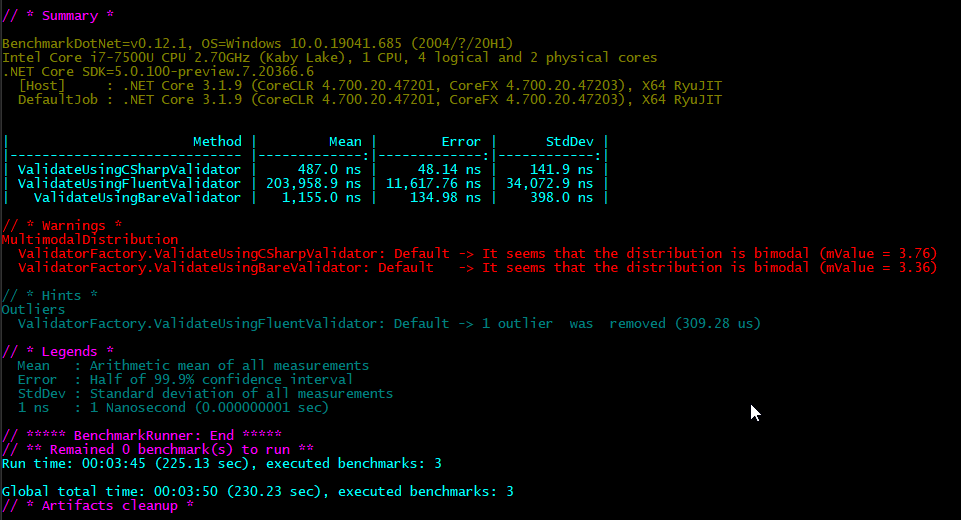
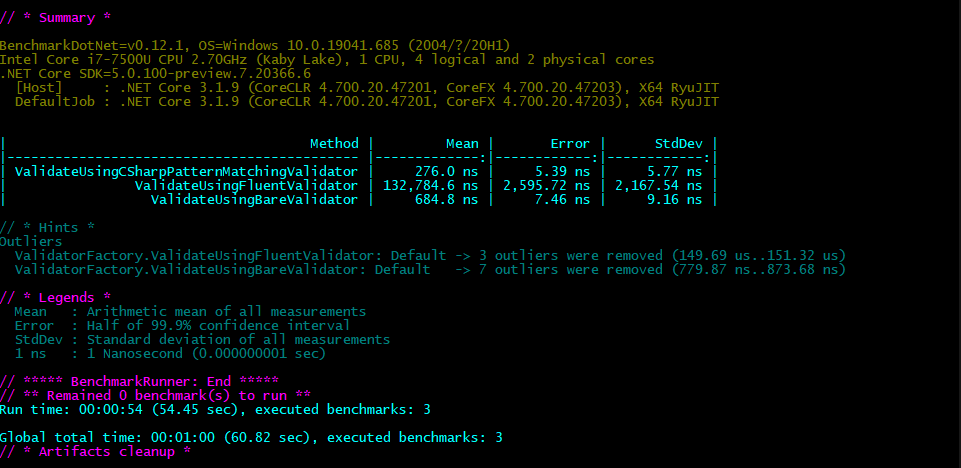
Update result,.

Changed region(s): [[0.0, 0.0, 0.7492, 0.9872], [0.4995, 0.4786, 0.9677, 0.6282], [0.7804, 0.7778, 0.8117, 0.8077]]

diff --git a/Program.cs b/Program.cs
@@ -26,7 +26,7 @@ namespace SharpValidationExperiment
 
 
         [Benchmark]
-        public void ValidateUsingCSharpValidator()
+        public void ValidateUsingCSharpPatternMatchingValidator()
         {
 
             CSharpPatternValidator.Validate(m1);
